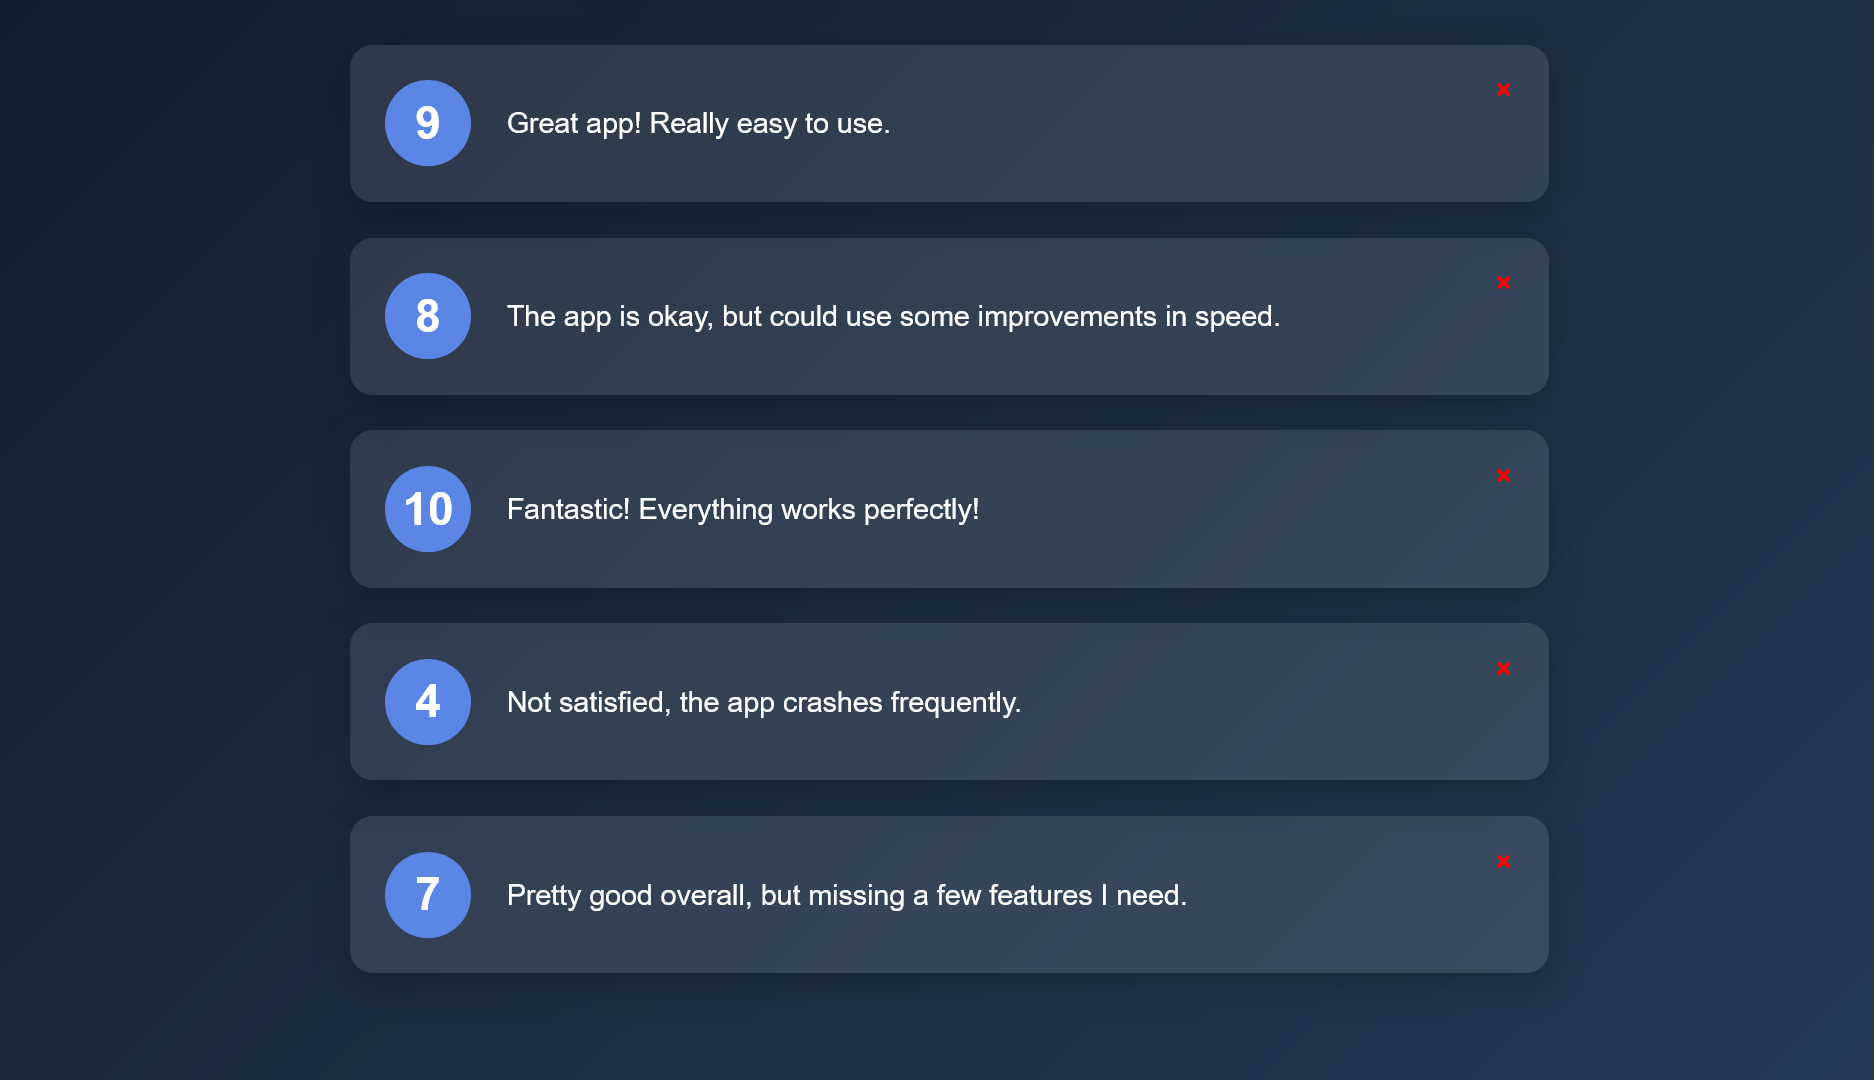
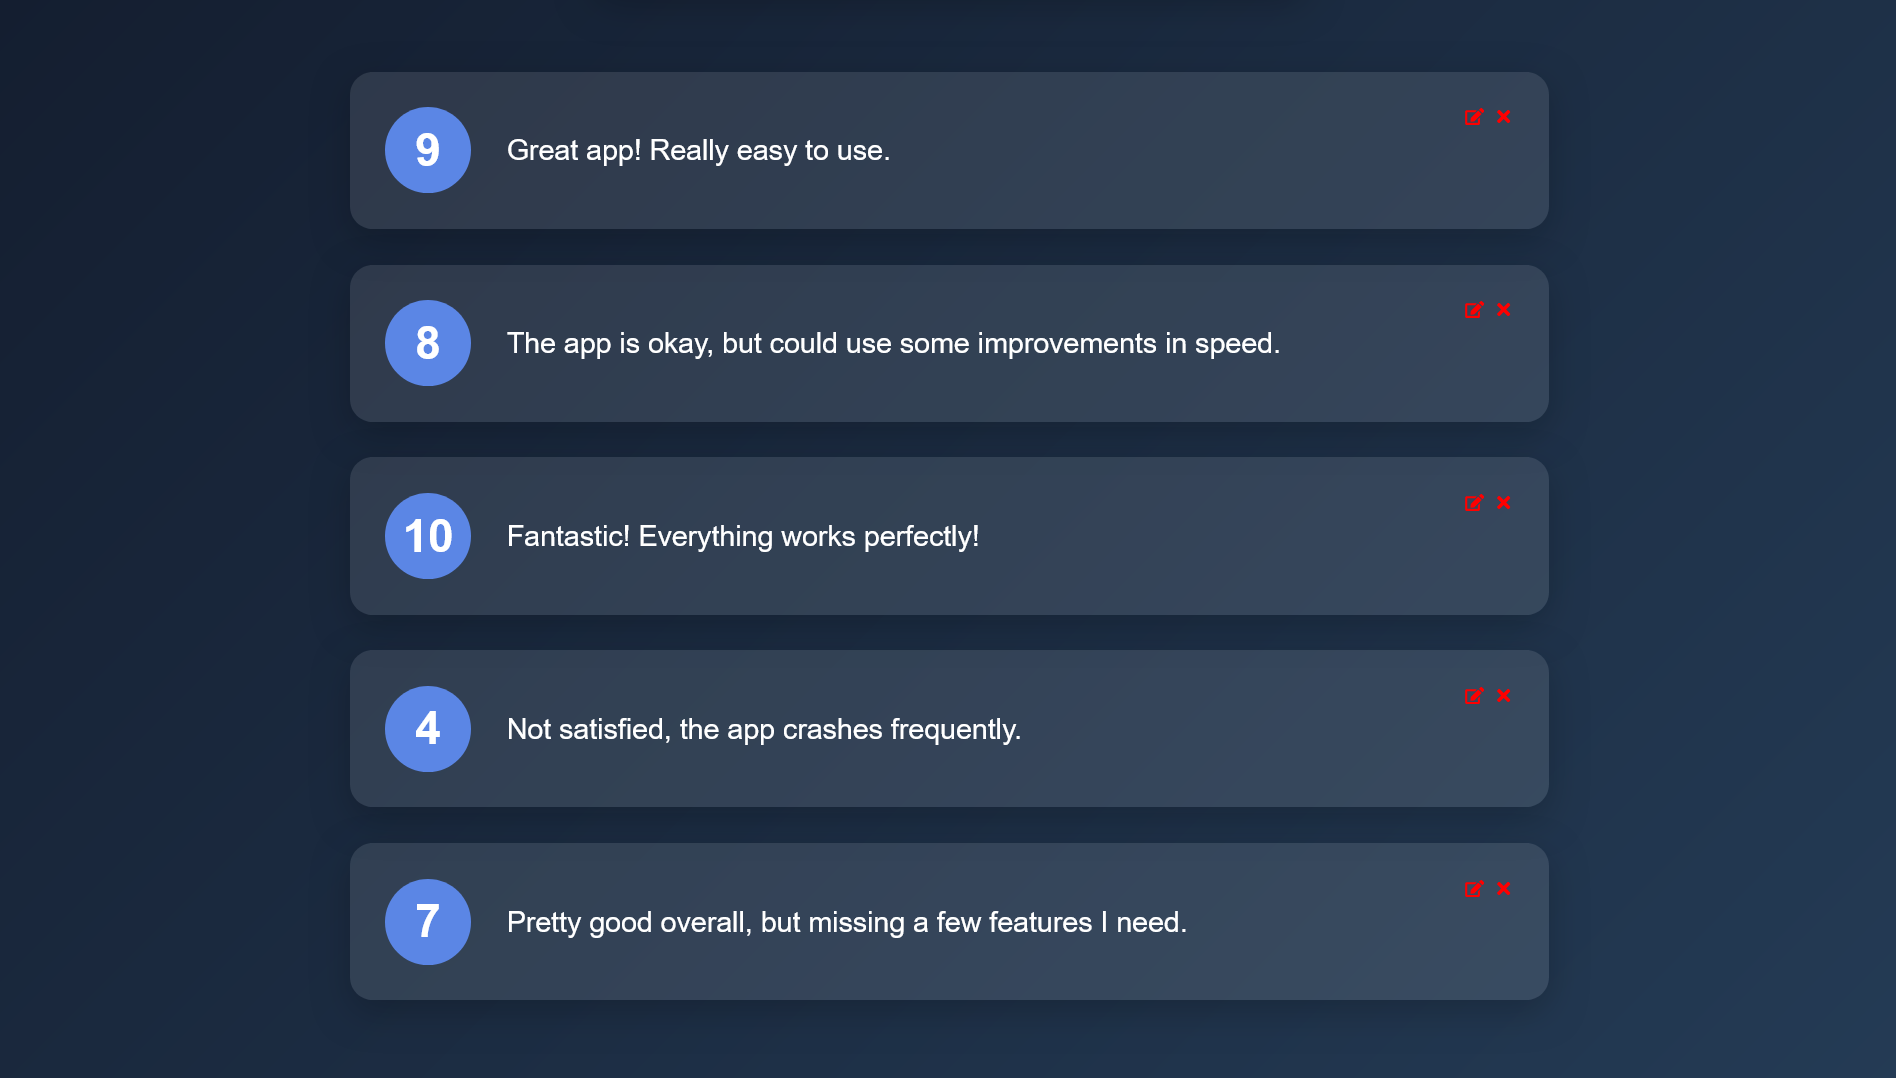
feedback app v2 commit

Changed region(s): [[0.1856, 0.0306, 0.8352, 0.949]]

diff --git a/src/context/FeedbackContext.jsx b/src/context/FeedbackContext.jsx
@@ -1,0 +1,65 @@
+import PropTypes from "prop-types";
+import { v4 as uuidv4 } from "uuid";
+import { createContext, useState } from "react";
+import FeedbackData from "../data/feedbackApi";
+
+const FeedbackContext = createContext();
+
+export const FeedbackProvider = ({ children }) => {
+  const [feedback, setFeedback] = useState(FeedbackData);
+  const [feedbackEdit, setFeedbackEdit] = useState({
+    item: {},
+    edit: false,
+  });
+
+  // Add Feedback
+  const addFeedback = (newFeedback) => {
+    newFeedback.id = uuidv4();
+    setFeedback([newFeedback, ...feedback]);
+  };
+
+  // Delete Feedback
+  const deleteFeedback = (id) => {
+    if (window.confirm("Are you sure you want to delete?")) {
+      setFeedback(feedback.filter((item) => item.id !== id));
+    }
+  };
+
+  // Edit Feedback
+  const editFeedback = (item) => {
+    setFeedbackEdit({
+      item,
+      edit: true,
+    });
+  };
+
+  // Update Feedback
+  const updateFeedback = (id, updateItem) => {
+    setFeedback(
+      feedback.map((item) =>
+        item.id === id ? { ...item, ...updateItem } : item
+      )
+    );
+  };
+
+  return (
+    <FeedbackContext.Provider
+      value={{
+        feedback: feedback,
+        feedbackEdit: feedbackEdit,
+        addFeedback: addFeedback,
+        deleteFeedback: deleteFeedback,
+        editFeedback: editFeedback,
+        updateFeedback: updateFeedback,
+      }}
+    >
+      {children}
+    </FeedbackContext.Provider>
+  );
+};
+
+FeedbackProvider.propTypes = {
+  children: PropTypes.arrayOf(PropTypes.isRequired),
+};
+
+export default FeedbackContext;

diff --git a/src/components/FeedbackForm.jsx b/src/components/FeedbackForm.jsx
@@ -1,14 +1,25 @@
-import PropTypes from "prop-types";
-import { useState } from "react";
+import { useState, useEffect, useContext } from "react";
+import FeedbackContext from "../context/FeedbackContext";
 import RatingSelect from "./RatingSelect";
 import Button from "../shared/Button";
 import "../styles/FeedbackForm.css";
 
-function FeedbackForm({ handleAdd }) {
+function FeedbackForm() {
   const [text, setText] = useState("");
   const [rating, setRating] = useState(10);
   const [btnDisabled, setBtnDisabled] = useState(true);
   const [message, setMessage] = useState("");
+
+  const { addFeedback, feedbackEdit, updateFeedback } =
+    useContext(FeedbackContext);
+
+  useEffect(() => {
+    if (feedbackEdit.edit === true) {
+      setBtnDisabled(false);
+      setText(feedbackEdit.item.text);
+      setRating(feedbackEdit.item.rating);
+    }
+  }, [feedbackEdit]);
 
   const handleTextChange = (e) => {
     if (text === "") {
@@ -30,7 +41,11 @@ function FeedbackForm({ handleAdd }) {
         text: text,
         rating: rating,
       };
-      handleAdd(newFeedback);
+      if (feedbackEdit.edit === true) {
+        updateFeedback(feedbackEdit.item.id, newFeedback);
+      } else {
+        addFeedback(newFeedback);
+      }
       setText("");
     }
   };
@@ -56,9 +71,5 @@ function FeedbackForm({ handleAdd }) {
     </div>
   );
 }
-
-FeedbackForm.propTypes = {
-  handleAdd: PropTypes.func.isRequired,
-};
 
 export default FeedbackForm;

diff --git a/src/App.jsx b/src/App.jsx
@@ -1,33 +1,20 @@
-import { v4 as uuidv4 } from "uuid";
-import { useState } from "react";
 import Header from "./components/Header";
 import FeedbackForm from "./components/FeedbackForm";
 import FeedbackStats from "./components/FeedbackStats";
 import FeedbackList from "./components/FeedbackList";
-import FeedbackData from "./api/feedbackApi";
+import { FeedbackProvider } from "./context/FeedbackContext";
 import "./App.css";
 
 function App() {
-  const [feedback, setFeedback] = useState(FeedbackData);
-
-  const addFeedback = (newFeedback) => {
-    newFeedback.id = uuidv4();
-    setFeedback([newFeedback, ...feedback]);
-  };
-  const deleteFeedback = (id) => {
-    if (window.confirm("Are you sure you want to delete?")) {
-      setFeedback(feedback.filter((item) => item.id !== id));
-    }
-  };
   return (
-    <>
+    <FeedbackProvider>
       <Header text="Feedback App" />
       <div className="container">
-        <FeedbackForm handleAdd={addFeedback} />
-        <FeedbackStats feedback={feedback} />
-        <FeedbackList feedback={feedback} handleDelete={deleteFeedback} />
+        <FeedbackForm />
+        <FeedbackStats />
+        <FeedbackList />
       </div>
-    </>
+    </FeedbackProvider>
   );
 }
 

diff --git a/src/components/FeedbackList.jsx b/src/components/FeedbackList.jsx
@@ -1,9 +1,12 @@
 import { motion, AnimatePresence } from "framer-motion";
-import PropTypes from "prop-types";
+import { useContext } from "react";
 import FeedbackItem from "./FeedbackItem";
+import FeedbackContext from "../context/FeedbackContext";
 import "../styles/FeedbackList.css";
 
-function FeedbackList({ feedback, handleDelete }) {
+function FeedbackList() {
+  const { feedback } = useContext(FeedbackContext);
+
   if (!feedback || feedback.length === 0) {
     return <p>No feedback yet!</p>;
   }
@@ -17,21 +20,12 @@ function FeedbackList({ feedback, handleDelete }) {
             animate={{ opacity: 1 }}
             exit={{ opacity: 0 }}
           >
-            <FeedbackItem
-              key={item.id}
-              item={item}
-              handleDelete={handleDelete}
-            />
+            <FeedbackItem key={item.id} item={item} />
           </motion.div>
         ))}
       </AnimatePresence>
     </div>
   );
 }
-
-FeedbackList.propTypes = {
-  feedback: PropTypes.arrayOf(PropTypes.object).isRequired,
-  handleDelete: PropTypes.func.isRequired,
-};
 
 export default FeedbackList;

diff --git a/src/components/FeedbackItem.jsx b/src/components/FeedbackItem.jsx
@@ -1,13 +1,21 @@
 import PropTypes from "prop-types";
+import { useContext } from "react";
+import FeedbackContext from "../context/FeedbackContext";
+import { FaEdit } from "react-icons/fa";
 import { FaTimes } from "react-icons/fa";
 import "../styles/FeedbackItem.css";
 
-function FeedbackItem({ item, handleDelete }) {
+function FeedbackItem({ item }) {
+  const { deleteFeedback, editFeedback } = useContext(FeedbackContext);
+
   return (
     <div className="feedback-item">
       <div className="num">{item.rating}</div>
-      <button className="close" onClick={() => handleDelete(item.id)}>
+      <button className="close" onClick={() => deleteFeedback(item.id)}>
         <FaTimes color="red" />
+      </button>
+      <button className="edit" onClick={() => editFeedback(item)}>
+        <FaEdit color="red" />
       </button>
       <div className="text">{item.text}</div>
     </div>
@@ -16,7 +24,6 @@ function FeedbackItem({ item, handleDelete }) {
 
 FeedbackItem.propTypes = {
   item: PropTypes.object.isRequired,
-  handleDelete: PropTypes.func.isRequired,
 };
 
 export default FeedbackItem;

diff --git a/src/components/RatingSelect.jsx b/src/components/RatingSelect.jsx
@@ -1,9 +1,15 @@
 import PropTypes from "prop-types";
-import { useState } from "react";
+import { useState, useEffect, useContext } from "react";
+import FeedbackContext from "../context/FeedbackContext";
 import "../styles/RatingSelect.css";
 function RatingSelect({ select }) {
   const [selected, setSelected] = useState(10);
 
+  const { feedbackEdit } = useContext(FeedbackContext);
+
+  useEffect(() => {
+    setSelected(feedbackEdit.item.rating);
+  }, [feedbackEdit]);
   const handleChange = (e) => {
     setSelected(parseInt(e.target.value));
     select(parseInt(e.target.value));

diff --git a/src/components/FeedbackStats.jsx b/src/components/FeedbackStats.jsx
@@ -1,7 +1,10 @@
-import PropTypes from "prop-types";
+import { useContext } from "react";
+import FeedbackContext from "../context/FeedbackContext";
 import "../styles/FeedbackStats.css";
 
-function FeedbackStats({ feedback }) {
+function FeedbackStats() {
+  const { feedback } = useContext(FeedbackContext);
+
   let average =
     feedback.reduce((acc, cur) => {
       return acc + cur.rating;
@@ -16,9 +19,5 @@ function FeedbackStats({ feedback }) {
     </div>
   );
 }
-
-FeedbackStats.propTypes = {
-  feedback: PropTypes.array.isRequired,
-};
 
 export default FeedbackStats;

diff --git a/src/styles/FeedbackItem.css b/src/styles/FeedbackItem.css
@@ -44,3 +44,19 @@
 .close:hover {
   opacity: 0.8;
 }
+
+.edit {
+  background: none;
+  border: none;
+  cursor: pointer;
+  position: absolute;
+  top: 15px;
+  right: 15px;
+  padding: 10px;
+  margin-right: 20px;
+  color: #fff;
+}
+
+.edit:hover {
+  opacity: 0.8;
+}

diff --git a/README.md b/README.md
@@ -1,6 +1,6 @@
 # Feedback App
 
-This is a feedback collection application built using React.js. Users can submit their feedback, rate their experience, and view an aggregate of the feedback provided by others. This project showcases component-based architecture, state management, and API simulation.
+This is a feedback collection application built using React.js. Users can submit their feedback, rate their experience, and view an aggregate of the feedback provided by others. This project showcases component-based architecture, state management, and API simulation. And the users can edit or delete their feedback.
 
 ## Screens
 
@@ -16,6 +16,7 @@ The app consists of the following screens:
 
 - Submit feedback with a rating between 1 and 10
 - View a list of all feedback provided
+- Edit or delete your feedback
 - Display aggregate statistics such as average rating
 - Simulate API functionality with local data
 
@@ -31,6 +32,7 @@ The app consists of the following components:
 - **FeedbackStats.jsx**: Shows aggregate statistics like the total number of feedback entries and the average rating.
 - **RatingSelect.jsx**: Provides a rating selection component for users.
 - **Button.jsx**: A reusable button component.
+- **FeedbackContext.jsx**: Contain all global function and props in the app.
 - **feedbackApi.js**: Simulates an API response with local data.
 
 ## Usage
